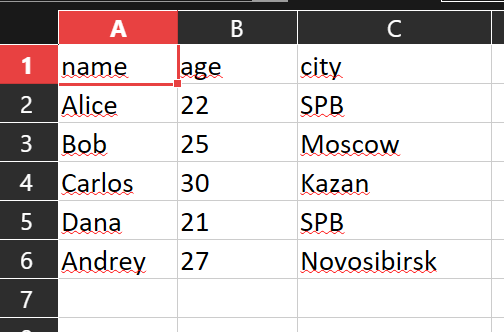
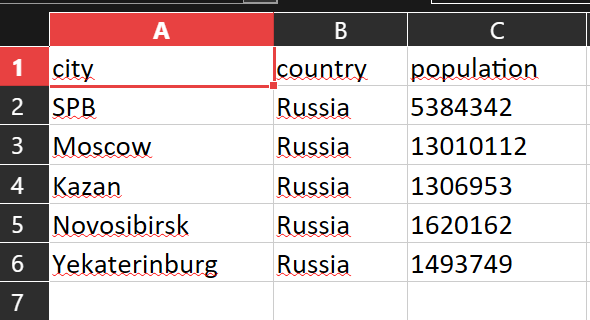
Сдача пятой лабораторной работы

diff --git a/src/lab05/csv_xlsx.py b/src/lab05/csv_xlsx.py
@@ -48,6 +48,6 @@ def csv_to_xlsx(csv_path: str, xlsx_path: str) -> None:
 
 if __name__ == "__main__":
     csv_to_xlsx(
-        "data/samples/people.json",
-        "data/out/people.xlsx"
+        "data/samples/cities.csv",
+        "data/out/cities.xlsx"
     )
